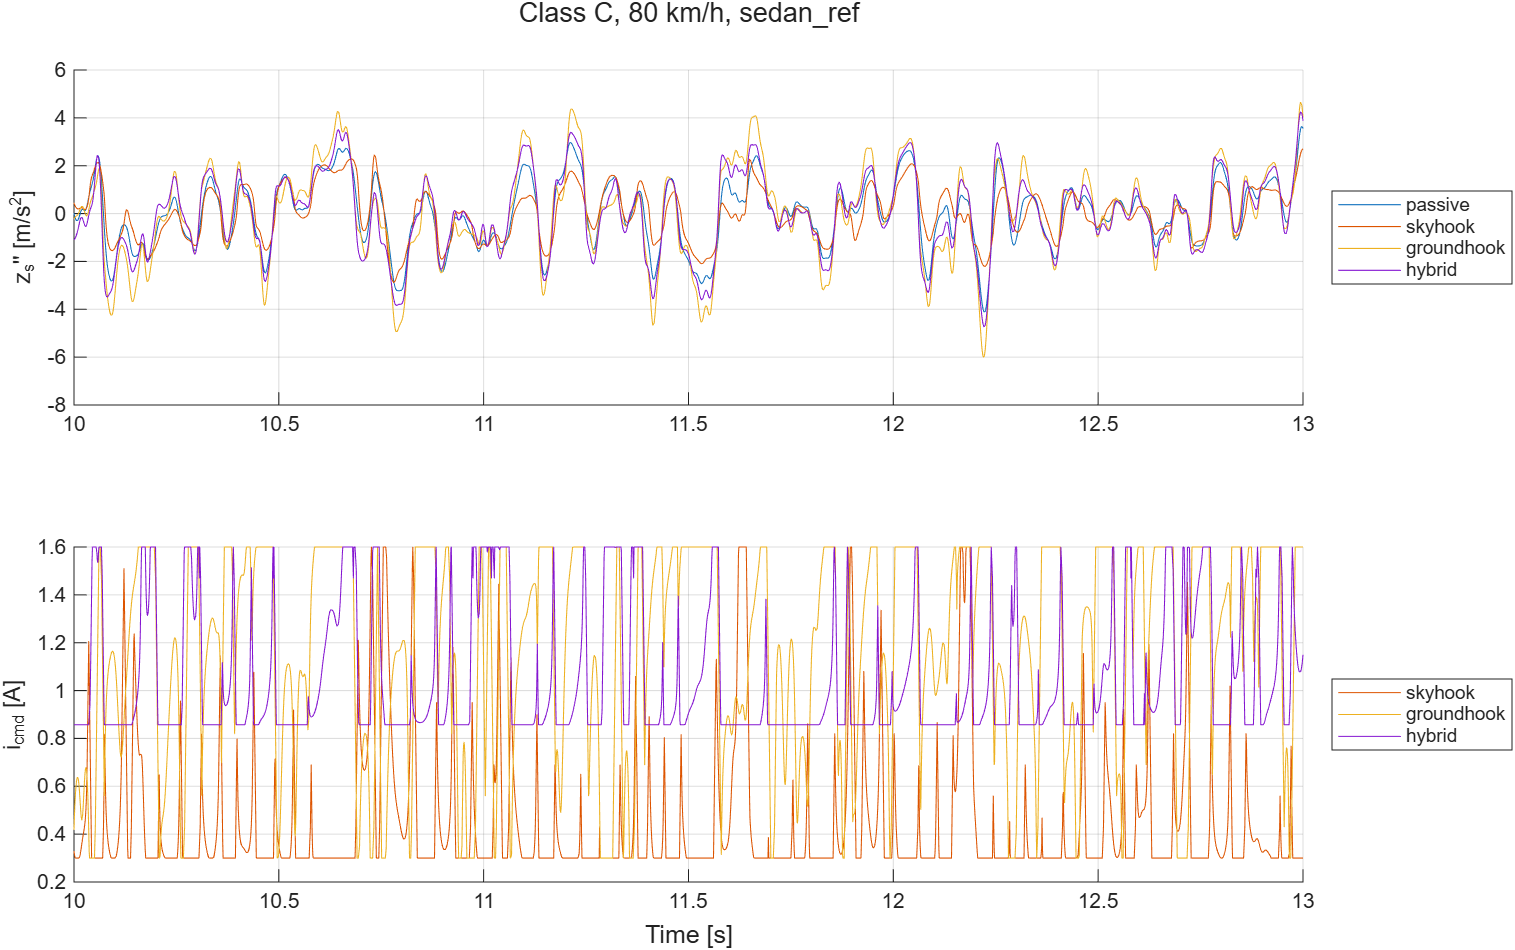
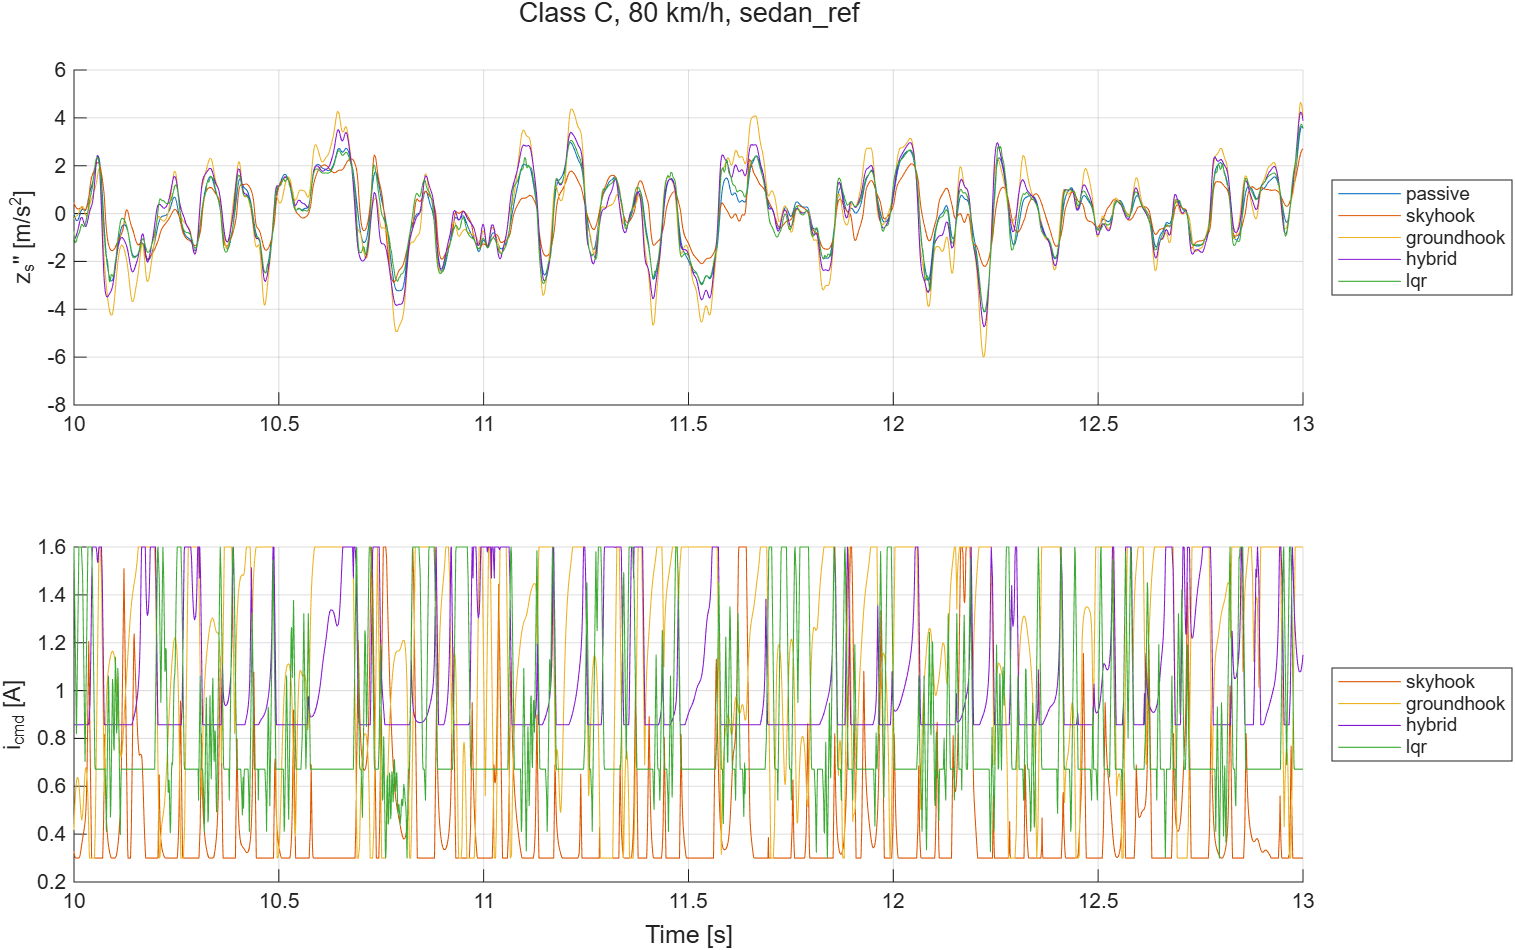
M7: comparison results with the LQR
run_comparison, TestComparison and the plausibility regression read the
modes from controller.slx, so new law slots are included automatically.
Results and README tables regenerated: the clipped LQR stays close to
passive because most of its requests cannot be produced by the damper.

diff --git a/src/matlab/run_comparison.m b/src/matlab/run_comparison.m
@@ -1,5 +1,5 @@
 function T = run_comparison(vehicle)
-%RUN_COMPARISON Passive, skyhook, groundhook, hybrid on the baseline scenarios (M3).
+%RUN_COMPARISON Every control law of controller.slx on the baseline scenarios (M3, v2).
 %   T = RUN_COMPARISON()          configured vehicle (PROJECT_CONFIG)
 %   T = RUN_COMPARISON(vehicle)   named vehicle
 %   Same roads, seed, duration and bump as RUN_BASELINE; every mode sees identical inputs.
@@ -19,9 +19,11 @@ if ~isfolder(outDir)
 end
 
 % 2) Scenarios: build ONE list, so every mode gets exactly the same roads
-% Mode numbers are the controller's law slots (interface/signals.md mode table).
-modes     = [0 1 2 3];
-modeNames = {'passive', 'skyhook', 'groundhook', 'hybrid'};
+% Mode numbers are the controller's law slots, read from the model, so a new
+% Law_<n>_ slot (v2: LQR, later MPC) is compared without editing this script.
+names = law_names();
+modes = cell2mat(keys(names));
+modeName = @(m) lower(names(m));                  % 'passive', 'skyhook', ..., 'lqr'
 % Same roads, seed and duration as run_baseline: the passive rows must equal
 % the M2 baseline (checked by TestComparison), which proves nothing else changed.
 classes = {'A', 'B', 'C', 'D'};  speeds = [50 80];  seed = 1;  Tsim = 30;
@@ -41,14 +43,14 @@ end
 scen(end+1) = struct('name', 'BUMP', 'cls', '-', 'v', 18, 't', tb, 'zr', zb);
 
 % 3) Run every scenario in every mode
-% Keep the C80 runs of all four modes for the time plot (Plot 2).
-Yc80 = cell(1, 4);
+% Keep the C80 run of every mode for the time plot (Plot 2), indexed m+1.
+Yc80 = cell(1, max(modes) + 1);
 rows = {};
 for s = 1:numel(scen)
     for m = modes
         Y = simulate_harness(P, scen(s).t, scen(s).zr, m);
         K = kpi(Y.t, Y.zs_ddot, Y.F_tire_dyn, Y.susp_travel, P.F_static);
-        rows(end+1, :) = {scen(s).name, P.name, m, modeNames{m+1}, scen(s).cls, scen(s).v, seed, K.rms_zs_ddot, K.rms_F_tire_dyn, K.rms_F_tire_rel, K.max_travel_mm};
+        rows(end+1, :) = {scen(s).name, P.name, m, modeName(m), scen(s).cls, scen(s).v, seed, K.rms_zs_ddot, K.rms_F_tire_dyn, K.rms_F_tire_rel, K.max_travel_mm};
         if strcmp(scen(s).name, 'C80')
             Yc80{m+1} = Y;
         end
@@ -75,14 +77,14 @@ end
 writetable(T, fullfile(outDir, sprintf('kpi_comparison_%s.csv', P.name)));
 
 % 7) Plots
-cols = lines(4);                                   % one color per mode
+cols = lines(max(modes) + 1);                      % one color per mode
 % The trade-off plot answers the main M3 question at a glance: left = more
 % comfort, down = better grip; skyhook lands upper left (comfort bought with grip).
 % Plot 1: trade-off, controllers vs passive, all scenarios
 f = figure('Visible', 'off'); hold on
-for m = 1:3
+for m = modes(modes > 0)
     r = T.mode == m;
-    scatter(T.d_comfort_pct(r), T.d_tire_pct(r), 40, cols(m+1, :), 'filled', 'DisplayName', modeNames{m+1});
+    scatter(T.d_comfort_pct(r), T.d_tire_pct(r), 40, cols(m+1, :), 'filled', 'DisplayName', modeName(m));
 end
 xline(0, 'k-', 'HandleVisibility', 'off'); yline(0, 'k-', 'HandleVisibility', 'off'); hold off
 xlabel('\Delta RMS body acceleration vs passive [%]  (negative = more comfort)');
@@ -94,15 +96,15 @@ exportgraphics(f, fullfile(outDir, sprintf('comparison_tradeoff_%s.png', P.name)
 % Plot 2: C80, 10-13 s, body acceleration (all modes) and current (controllers)
 f = figure('Visible', 'off'); tl = tiledlayout(f, 2, 1);
 nexttile; hold on
-for m = 0:3
+for m = modes
     w = Yc80{m+1}.t >= 10 & Yc80{m+1}.t <= 13;
-    plot(Yc80{m+1}.t(w), Yc80{m+1}.zs_ddot(w), 'Color', cols(m+1, :), 'DisplayName', modeNames{m+1});
+    plot(Yc80{m+1}.t(w), Yc80{m+1}.zs_ddot(w), 'Color', cols(m+1, :), 'DisplayName', modeName(m));
 end
 hold off; ylabel('z_s'''' [m/s^2]'); legend('Location', 'eastoutside'); grid on
 nexttile; hold on
-for m = 1:3
+for m = modes(modes > 0)
     w = Yc80{m+1}.t >= 10 & Yc80{m+1}.t <= 13;
-    plot(Yc80{m+1}.t(w), Yc80{m+1}.i_cmd(w), 'Color', cols(m+1, :), 'DisplayName', modeNames{m+1});
+    plot(Yc80{m+1}.t(w), Yc80{m+1}.i_cmd(w), 'Color', cols(m+1, :), 'DisplayName', modeName(m));
 end
 hold off; ylabel('i_{cmd} [A]'); legend('Location', 'eastoutside'); grid on
 xlabel(tl, 'Time [s]'); title(tl, sprintf('Class C, 80 km/h, %s', strrep(P.name, '_', '\_')));

diff --git a/tests/matlab/TestComparison.m b/tests/matlab/TestComparison.m
@@ -4,21 +4,22 @@ classdef TestComparison < matlab.unittest.TestCase
 
     properties (Constant)
         Scenarios = {'A50', 'A80', 'B50', 'B80', 'C50', 'C80', 'D50', 'D80', 'BUMP'}
-        Modes = {'passive', 'skyhook', 'groundhook', 'hybrid'}
     end
 
     methods (Test)
-        % The committed CSV must be complete: 9 scenarios x 4 modes, one row each, and
-        % mode names that match the mode numbers.
+        % The committed CSV must be complete: 9 scenarios x every law slot of the
+        % model (v2: 5 with the LQR), one row each, and mode names that match the
+        % slot names. A new slot without new results fails here.
         function every_scenario_in_every_mode(tc)
             T = tc.readComparison();
-            tc.verifyEqual(height(T), numel(tc.Scenarios)*numel(tc.Modes));
+            names = law_names(); modes = cell2mat(keys(names));
+            tc.verifyEqual(height(T), numel(tc.Scenarios)*numel(modes));
             for s = tc.Scenarios
-                for m = 0:3
+                for m = modes
                     r = strcmp(T.scenario, s{1}) & T.mode == m;
                     tc.verifyEqual(nnz(r), 1, sprintf('%s, mode %d: exactly one row', s{1}, m));
                     if nnz(r) == 1
-                        tc.verifyEqual(T.mode_name{r}, tc.Modes{m+1});
+                        tc.verifyEqual(T.mode_name{r}, lower(names(m)));
                     end
                 end
             end

diff --git a/tests/matlab/TestPlausibility.m b/tests/matlab/TestPlausibility.m
@@ -3,10 +3,6 @@ classdef (TestTags = {'Plausibility'}) TestPlausibility < matlab.unittest.TestCa
     %   Not tied to a single requirement: they catch modelling errors that would
     %   make every requirement verdict meaningless.
 
-    properties (Constant)
-        Modes = [0 1 2 3]
-    end
-
     methods (TestClassSetup)
         function loadModels(tc)
             load_system('harness'); load_system('plant');
@@ -69,7 +65,7 @@ classdef (TestTags = {'Plausibility'}) TestPlausibility < matlab.unittest.TestCa
             C = readtable(f, 'TextType', 'char');
             P = setup_params();
             [t, zr] = road_iso8608('C', 80, 30, 1);
-            for m = tc.Modes
+            for m = cell2mat(keys(law_names()))      % every slot, incl. v2 laws
                 Y = simulate_harness(P, t, zr, m);
                 K = kpi(Y.t, Y.zs_ddot, Y.F_tire_dyn, Y.susp_travel, P.F_static);
                 r = strcmp(C.scenario, 'C80') & C.mode == m;

diff --git a/src/python/readme_results.py b/src/python/readme_results.py
@@ -37,7 +37,7 @@ COMPARISON = ROOT / "results" / "comparison" / "kpi_comparison_sedan_ref.csv"
 LAG = ROOT / "results" / "sensitivity" / "lag_sensitivity_sedan_ref.csv"
 TRACE = ROOT / "results" / "traceability.md"
 B2B = ROOT / "results" / "back_to_back.json"
-NAMES = {0: "Passive", 1: "Skyhook", 2: "Groundhook", 3: "Hybrid (α = 0.5)"}
+NAMES = {0: "Passive", 1: "Skyhook", 2: "Groundhook", 3: "Hybrid (α = 0.5)", 4: "LQR (v2)"}
 
 
 # ---------- number formats ----------
@@ -54,7 +54,7 @@ def source(path):
 
 # ---------- the generated blocks ----------
 def comparison():
-    """Passive vs the three controllers on SC-C80 and SC-BUMP (absolute KPI and
+    """Passive vs every controller on SC-C80 and SC-BUMP (absolute KPI and
     change vs passive on the same road; negative = better)."""
     df = read_csv_exact(COMPARISON)
     out = []

diff --git a/README.md b/README.md
@@ -64,6 +64,7 @@ change versus passive on the same road; **negative = better**.
 | Skyhook | 1.22 | −18.9 % | 876 | +31.0 % | 40.5 | +12.9 % |
 | Groundhook | 2.00 | +32.5 % | 630 | −5.7 % | 35.9 | +0.0 % |
 | Hybrid (α = 0.5) | 1.75 | +16.1 % | 632 | −5.4 % | 26.0 | −27.4 % |
+| LQR (v2) | 1.57 | +4.2 % | 654 | −2.2 % | 41.1 | +14.7 % |
 
 **Bump 50 mm × 0.5 m at 18 km/h (SC-BUMP)**
 
@@ -73,6 +74,7 @@ change versus passive on the same road; **negative = better**.
 | Skyhook | 0.87 | −28.8 % | 664 | +48.3 % | 66.3 | +24.4 % |
 | Groundhook | 1.76 | +44.8 % | 463 | +3.5 % | 38.4 | −28.0 % |
 | Hybrid (α = 0.5) | 1.38 | +13.2 % | 431 | −3.8 % | 48.0 | −9.9 % |
+| LQR (v2) | 1.22 | +0.2 % | 445 | −0.6 % | 53.3 | +0.0 % |
 
 <sub>Source: [`results/comparison/kpi_comparison_sedan_ref.csv`](results/comparison/kpi_comparison_sedan_ref.csv)</sub>
 <!-- END generated:comparison -->
@@ -84,7 +86,7 @@ Verification:
 <!-- BEGIN generated:verification (src/python/readme_results.py; do not edit by hand) -->
 | Check | Result |
 |---|---|
-| Requirements (13) | **12 Pass, 1 Fail (1 known), 0 Unverified** (commit `b86baac`) |
+| Requirements (17) | **14 Pass, 1 Fail (1 known), 2 Unverified** (commit `de2cd29`) |
 | Fault reaction, REQ-S-01 (limit 10 ms) | **5 ms** |
 | Generated C code vs MiL, REQ-V-01 | **max \|Δ i_cmd\| = 0 A** over 26,003 samples (SC-BUMP, SC-C80, SC-FAULT); fault_active identical: yes |
 
@@ -152,10 +154,14 @@ acceptance criteria and measured values is generated by `run_tests()`:
 | REQ-F-03 | Initialization | **Pass** |
 | REQ-F-04 | Rate limit | **Pass** |
 | REQ-F-05 | Finite output | **Pass** |
+| REQ-F-06 | Semi-active request of model-based laws | **Pass** |
+| REQ-F-07 | MPC respects the semi-active limits | **Pass** |
 | REQ-P-01 | Ride comfort | **Pass** |
 | REQ-P-02 | Road holding penalty | **Fail (known)** |
 | REQ-P-03 | Suspension travel | **Pass** |
 | REQ-P-04 | Robustness across vehicles | **Pass** |
+| REQ-P-05 | MPC ride comfort | **Unverified** |
+| REQ-P-06 | MPC road holding penalty | **Unverified** |
 | REQ-S-01 | Fault reaction | **Pass** |
 | REQ-S-02 | Fault latch | **Pass** |
 | REQ-V-01 | Generated code matches model | **Pass** |

diff --git a/CHANGELOG.md b/CHANGELOG.md
@@ -33,6 +33,10 @@ Version plan: each completed milestone is tagged as a minor release
 - v2/M7: back-to-back record and traceability for interface v2: generated
   code bit-identical to all three logs (REQ-V-01 Pass, LQR included);
   14 Pass, 1 known Fail (REQ-P-02), 2 Unverified (REQ-P-05/06, MPC in M8).
+- v2/M7: `run_comparison` and its tests take the modes from the model's
+  law slots; comparison results and README tables include the LQR
+  (SC-C80: comfort +4.2 %, tire load −2.2 % vs passive; its request falls
+  back to passive in 60 % of samples).
 
 ### Changed
 - `.gitignore`: local teaching report and slides (`docs/teaching/`).
